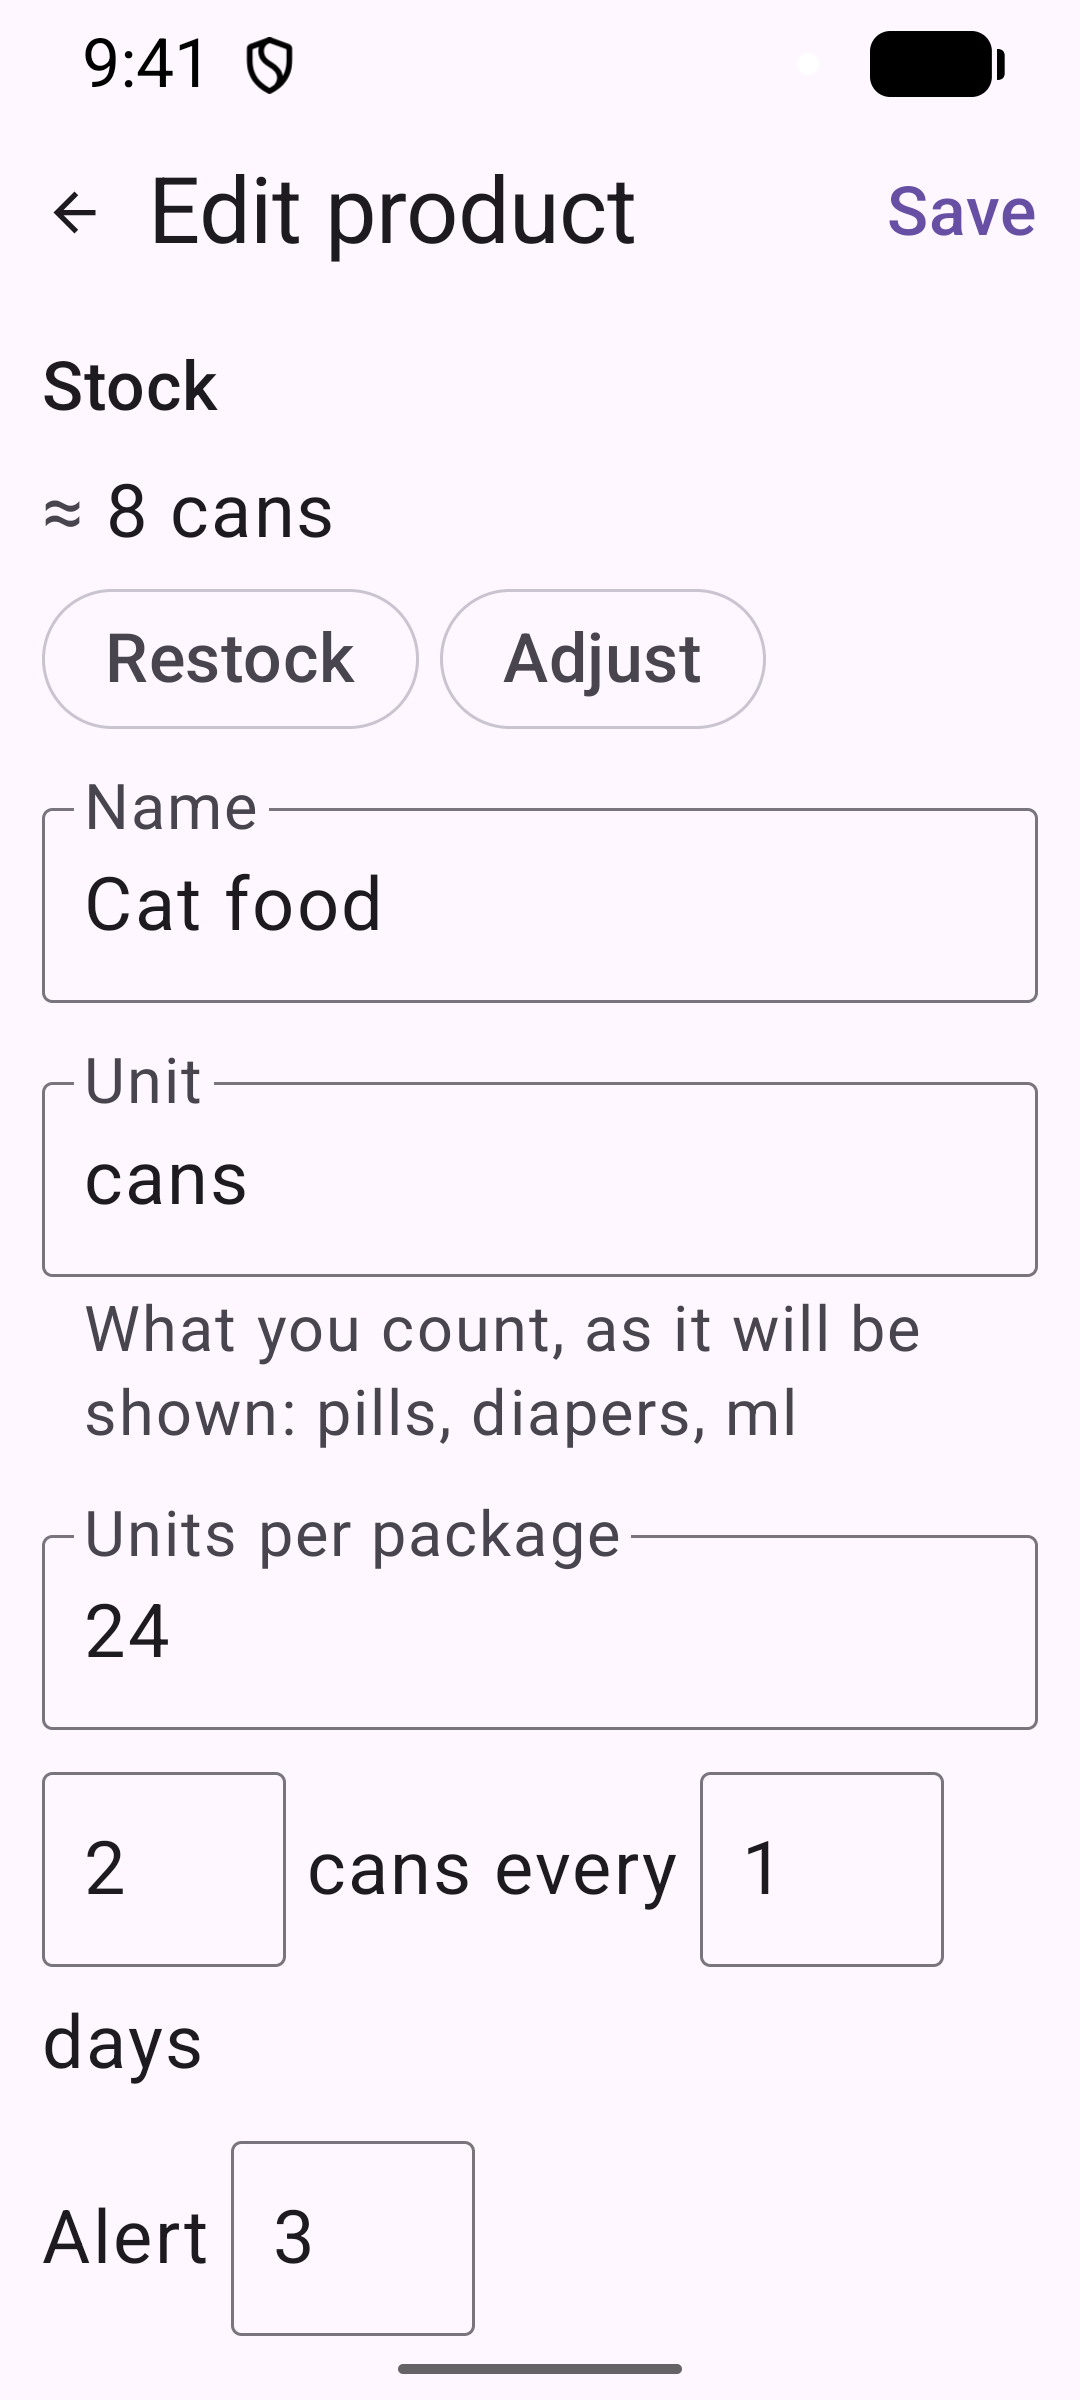
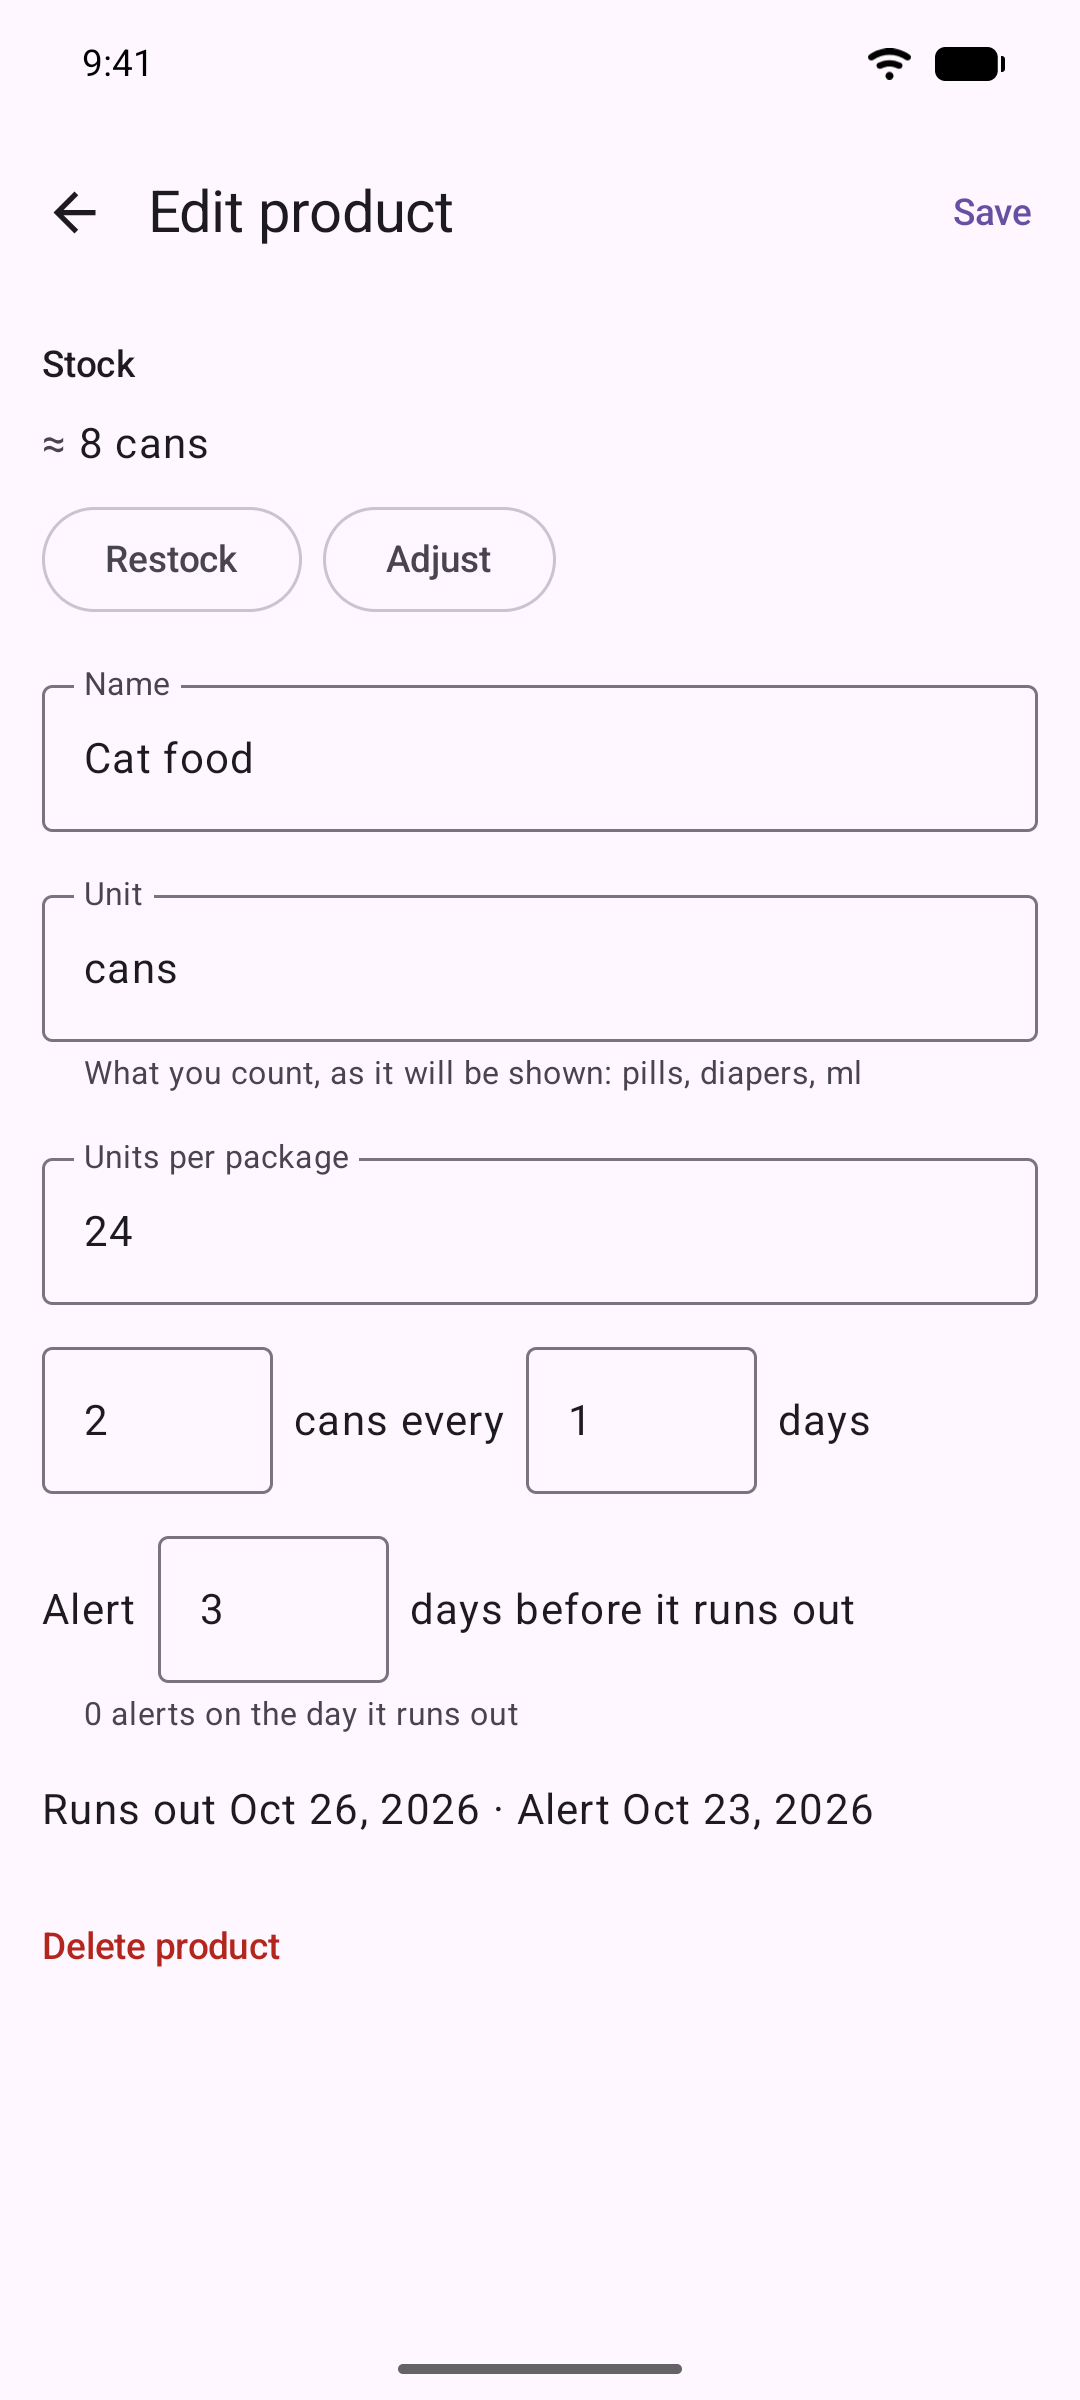
docs: finalize the store listing short descriptions and retake the screenshots

diff --git a/AGENTS.md b/AGENTS.md
@@ -53,7 +53,7 @@ Android app that alerts the user before a household consumable runs out. Built w
 - Decisions are recorded in `docs/adr/` (index: [`docs/adr/README.md`](docs/adr/README.md)). A significant technical decision (new architectural pattern, new module, new dependency with lasting impact, or reversal of an existing ADR) needs an ADR in the same change. Accepted ADRs are never rewritten: add a new ADR that supersedes the old one, set the old status to `Superseded by NNNN`, and update the index.
 
 ## Project state
-Phase 0 (foundation) is complete and Phase 1 has started: the local toolchain is installed and the Gradle project exists (`add-android-project-skeleton`: placeholder screen, verified on `cn-api37` and `cn-api26`). Lint is set up (`add-lint-setup`); test setup exists (`add-test-infrastructure`); CI is defined in `.github/workflows/ci.yml` (`add-ci-workflows`); the gate config exists and the `main` ruleset is active (`add-gate-and-repo-protection`). Phase 1: the product model with exact stock estimation exists in `:domain` (`add-product-stock-domain`, done); the rule, depletion date and next alert exist in `:domain` (`add-depletion-and-alert-domain`, done); products are stored with Room 3 behind the `ProductRepository` port, wired by a manual `AppContainer` (`add-room-persistence`, ADR 0015, done); the main screen is the product list with the fixed light/dark theme, a ViewModel recomputing every minute while visible, and `AppContainer` exposing the clock and zone (`add-product-list-ui`, done); products can be created from a form reached by navigation with AndroidX Navigation 3, back stack in memory (`add-product-create-ui`, ADR 0016, done). Planned stack in `README.md`. Tapping a product row opens the same form to edit it (stock not editable) with a confirmed delete (`add-product-edit-delete-ui`, done). The edit form has a "Stock" section with restock and adjust dialogs, stored immediately and independent of "Save" (`add-adjustment-restock-ui`, #44, done). Alerts are scheduled with inexact `AlarmManager` alarms and delivered as local notifications, reconciled on boot, update, clock and time zone changes, app start and every product change (`add-alert-scheduler`, #45 part a, ADR 0017: `setWindow` with a 3 hour window, no exact-alarm permission, done). The app has its own adaptive launcher icon with a monochrome layer (`add-launcher-icon`, done). The notification permission is asked in context after a save on Android 13 and later, and a disabled-alerts banner on the product list leads the user to turn alerts back on (`add-notification-permission`, #45 part b, done; #45 closed). The calendar channel setting exists: a Settings screen reached from the product list top bar turns it on, asks for calendar access in context and chooses the device calendar, stored in Room (database version 3); (`add-calendar-gateway`, #46 part a, done). Alert events are written: one all-day event per product with a next alert, kept in sync at the same triggers as the alarms, never recreating an event the user deleted until the product changes; records in Room (database version 4) (`add-calendar-event-sync`, #46 part b1, done). The product list shows a "Calendar alerts are off" banner with "Fix" (opens Settings) while the channel is on but cannot work, sharing one banner composable with the disabled-alerts banner and one `checkChannel` rule with Settings (`add-calendar-channel-banner`, #46 part b2, done; #46 stays open). The app is available in Spanish (`values-es`, informal "tú", `localeConfig` for the per-app language on Android 13 and later); the notification channel name and the calendar events follow the language, with the language stored in the event record (Room database version 5) (`add-spanish-translation`, #48 done, item 1 of #78 done; #78 stays open for item 2). The release build is shrunk with R8 and the footprint is measured by `scripts/footprint.sh`, with the baseline in `docs/footprint.md` and no numeric budgets yet (`add-resource-footprint-measurement`, #49, done). Releases are versioned by release-please and the signed bundle is built in CI for a release, with the store listing, privacy policy and owner guide in the repository (`add-play-internal-testing`, #47, ADR 0018: merged as code, waiting on the owner's one-time setup and first release from `docs/release.md`, the UX approval of the listing texts and screenshots (to be retaken after a layout fix change), and the physical-device check; #47 closes after that check). Next: #50.
+Phase 0 (foundation) is complete and Phase 1 has started: the local toolchain is installed and the Gradle project exists (`add-android-project-skeleton`: placeholder screen, verified on `cn-api37` and `cn-api26`). Lint is set up (`add-lint-setup`); test setup exists (`add-test-infrastructure`); CI is defined in `.github/workflows/ci.yml` (`add-ci-workflows`); the gate config exists and the `main` ruleset is active (`add-gate-and-repo-protection`). Phase 1: the product model with exact stock estimation exists in `:domain` (`add-product-stock-domain`, done); the rule, depletion date and next alert exist in `:domain` (`add-depletion-and-alert-domain`, done); products are stored with Room 3 behind the `ProductRepository` port, wired by a manual `AppContainer` (`add-room-persistence`, ADR 0015, done); the main screen is the product list with the fixed light/dark theme, a ViewModel recomputing every minute while visible, and `AppContainer` exposing the clock and zone (`add-product-list-ui`, done); products can be created from a form reached by navigation with AndroidX Navigation 3, back stack in memory (`add-product-create-ui`, ADR 0016, done). Planned stack in `README.md`. Tapping a product row opens the same form to edit it (stock not editable) with a confirmed delete (`add-product-edit-delete-ui`, done). The edit form has a "Stock" section with restock and adjust dialogs, stored immediately and independent of "Save" (`add-adjustment-restock-ui`, #44, done). Alerts are scheduled with inexact `AlarmManager` alarms and delivered as local notifications, reconciled on boot, update, clock and time zone changes, app start and every product change (`add-alert-scheduler`, #45 part a, ADR 0017: `setWindow` with a 3 hour window, no exact-alarm permission, done). The app has its own adaptive launcher icon with a monochrome layer (`add-launcher-icon`, done). The notification permission is asked in context after a save on Android 13 and later, and a disabled-alerts banner on the product list leads the user to turn alerts back on (`add-notification-permission`, #45 part b, done; #45 closed). The calendar channel setting exists: a Settings screen reached from the product list top bar turns it on, asks for calendar access in context and chooses the device calendar, stored in Room (database version 3); (`add-calendar-gateway`, #46 part a, done). Alert events are written: one all-day event per product with a next alert, kept in sync at the same triggers as the alarms, never recreating an event the user deleted until the product changes; records in Room (database version 4) (`add-calendar-event-sync`, #46 part b1, done). The product list shows a "Calendar alerts are off" banner with "Fix" (opens Settings) while the channel is on but cannot work, sharing one banner composable with the disabled-alerts banner and one `checkChannel` rule with Settings (`add-calendar-channel-banner`, #46 part b2, done; #46 stays open). The app is available in Spanish (`values-es`, informal "tú", `localeConfig` for the per-app language on Android 13 and later); the notification channel name and the calendar events follow the language, with the language stored in the event record (Room database version 5) (`add-spanish-translation`, #48 done, item 1 of #78 done; #78 stays open for item 2). The release build is shrunk with R8 and the footprint is measured by `scripts/footprint.sh`, with the baseline in `docs/footprint.md` and no numeric budgets yet (`add-resource-footprint-measurement`, #49, done). Releases are versioned by release-please and the signed bundle is built in CI for a release, with the store listing, privacy policy and owner guide in the repository (`add-play-internal-testing`, #47, ADR 0018: merged as code, waiting on the owner's one-time setup and first release from `docs/release.md` and the physical-device check; #47 closes after that check). Next: #50.
 
 ## GitHub
 Milestones per phase; issues per change (labels `change`, `spike`, `adr`, `parallelizable`, `blocked`, `needs-human`); public board at https://github.com/users/jdgomez/projects/1. PRs close their issue with `Closes #N`.

diff --git a/openspec/changes/archive/2026-10-21-add-play-internal-testing/tasks.md b/openspec/changes/archive/2026-10-21-add-play-internal-testing/tasks.md
@@ -19,7 +19,7 @@
 - [x] 4.1 Draft the English and Spanish title, short and full description (design decision 6), describing only what the app does
 - [x] 4.2 Produce the 512 px icon and the 1024 x 500 feature graphic from the launcher icon design
 - [x] 4.3 Take the phone screenshots on `cn-api37` in English and Spanish (sample products created through the UI, demo-mode status bar), at least two per language; shut the emulator down afterwards
-- [ ] 4.4 (owner) Approve the texts and images as UX; stop and report with the files' paths before going on
+- [x] 4.4 (owner) Approve the texts and images as UX; stop and report with the files' paths before going on
 - [x] 4.5 Add the test that checks text limits and image sizes ("Listing check" scenario)
 
 ## 5. Documentation and ADR
